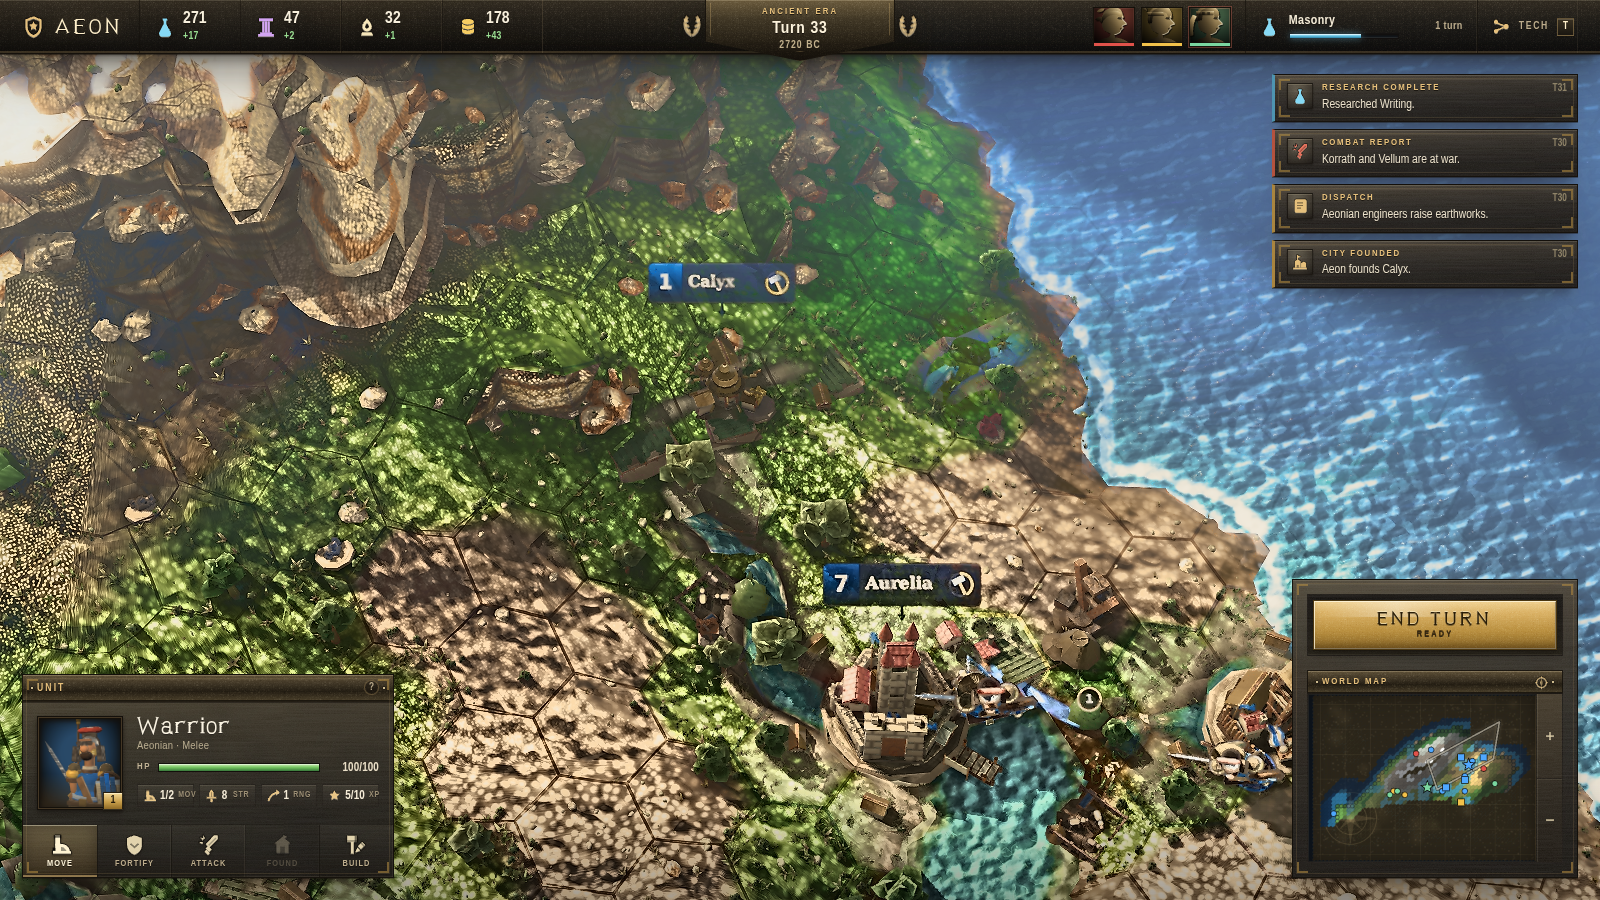
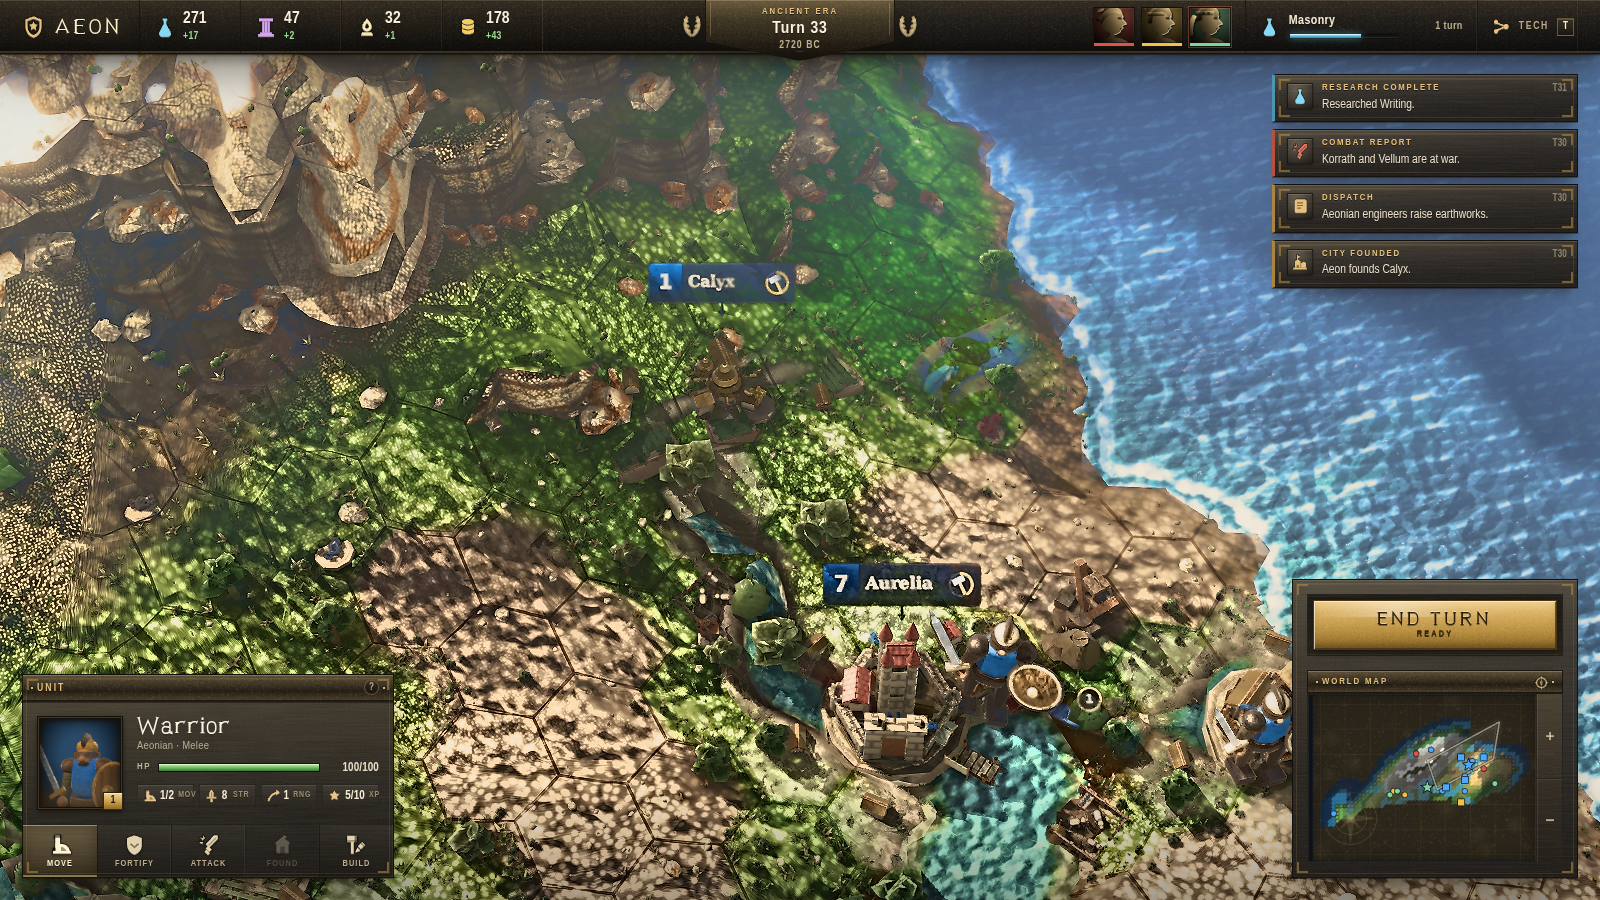
release: re-shot hero/wide/close at 57/100, per-axis scores and the honest defect list

Changed region(s): [[0.5625, 0.6844, 0.8125, 0.9333], [0.0312, 0.8089, 0.0938, 0.9022]]

diff --git a/docs/RESUME.md b/docs/RESUME.md
@@ -1,87 +1,105 @@
-# Resume notes — paused 2026-08-25 (end of phase 9)
+# Resume notes — paused 2026-08-25 (end of phase 10)
 
 ## State
-Referee scores the whole frame on six independent axes. Standing frame at HEAD:
+The referee scores the whole frame on six independent axes. Standing frame at HEAD:
 
 | axis | score | what it measures |
 |---|---|---|
-| lighting | **18** / 30 | cast shadows landing, contact AO, one unifying sun, shadow hue within ~10° of lit hue |
-| material | **9** / 20 | world-space detail shrinking with distance, no confetti, no flat-matte |
-| readability | **8** / 15 | hex grid legible everywhere incl. mountains, biomes distinguishable |
-| units | **3** / 15 | silhouettes nameable at gameplay zoom, grounded, not clay |
+| lighting | **20** / 30 | cast shadows landing, contact AO, one unifying sun, shadow hue near the lit hue |
+| material | **8** / 20 | world-space detail shrinking with distance, no confetti, no flat-matte |
+| readability | **9** / 15 | hex grid legible everywhere incl. mountains, biomes distinguishable |
+| units | **6** / 15 | silhouettes nameable at gameplay zoom, grounded, not clay |
 | colour | **6** / 10 | palette compliance, no cast, aerial perspective lighter-cooler-desaturated |
-| finish | **5** / 10 | no mesh holes, blown voids, aliasing, streaks, z-fighting, clipped UI |
-| **total** | **49** / 100 | |
+| finish | **8** / 10 | no mesh holes, blown voids, aliasing, streaks, z-fighting, clipped UI |
+| **total** | **57** / 100 | best recorded; scored on `shots/verify-57.png`, which is the same build as the released frames |
 
-- `node tools/sim.mjs` passes: 260 turns, 26 cities, 32 techs, 11 wars, culture victory.
-- `npx vite build` succeeds; the site deploys from `dist/`.
-- Latest frames: `shots/final-hero.png`, `shots/final-wide.png`, `shots/final-close.png` (1600x900,
-  directed via `?shot=hero|wide|close`; each captured `blank:false errors:[]`).
-- The objective gate still **FAILS** on the released frame. Measured on `shots/final-hero.png`
-  (`node tools/metrics.mjs shots/final-hero.png 200,120,200,140:far-rock 700,430,200,140:mid-sand 620,760,200,140:near-sand 1150,200,240,160:water`):
+- `node tools/sim.mjs` passes: 260 turns, 26 cities, pop 4->341, 57 units, the 32-tech tree exhausted by
+  three of four civs, 11 wars and 6 peaces, 14449 pathed tiles with 0 read through fog,
+  culture victory to Vellum. Worst turn 15 ms.
+- `npx vite build` succeeds; GitHub Actions rebuilds `dist/` on push and deploys it.
+- Released frames: `shots/final-hero.png`, `shots/final-wide.png`, `shots/final-close.png`
+  (1600x900, directed via `?shot=hero|wide|close`; each captured `blank:false errors:[]`).
+- The objective gate still **FAILS** on the released frame:
+
+  `node tools/metrics.mjs shots/final-hero.png 200,120,200,140:far-rock 700,430,200,140:mid-sand
+  620,700,240,160:near-sand 1200,300,240,160:water`
 
   | region | mean | sat | hue | HF_rms | MID/HF |
   |---|---|---|---|---|---|
   | far-rock | 121.3 | 0.317 | 34.5 | 14.64 | 1.00 |
-  | mid-sand | 100.0 | 0.460 | 65.5 | **23.69** | 1.10 |
-  | near-sand | 106.9 | **0.469** | 48.9 | 20.51 | **1.40** |
-  | water | 108.7 | 0.391 | 211.6 | 13.44 | 0.92 |
+  | mid-sand | 100.0 | **0.460** | 65.5 | **23.69** | 1.10 |
+  | near-sand | 116.8 | **0.467** | 51.5 | **22.61** | **1.36** |
+  | water | 131.1 | 0.421 | 209.2 | **3.52** | **3.92** |
 
-  near/far HF ramp **1.40** (need ≥ 1.6) · crushed 0.08 · blown 0.00. Four failures: mid-sand HF over
-  the 22 confetti ceiling, near-sand MID/HF over 1.3 (blurry blobs), near-sand saturation over 0.46,
-  and the ramp. Clipping and shadow-hue coherence are the two things that do pass cleanly.
-
-## Phase 9: six attempts, six reverts
-Phase 9 replaced the single noisy total with a per-axis Pareto gate — accept only if **no axis drops
-and at least one gains ≥ 2**. It ran a coherent look pass (terrain + post + water + grid together,
-because the failures were coherence failures no single file could fix) and a units rebuild.
-
-| attempt | total | why it was rejected |
-|---|---|---|
-| look a1 | 48 | material 9 → 8 |
-| look a2 | 39 | lighting 18 → 12, readability 8 → 7, finish 5 → 3 |
-| look a3 | 47 | lighting 18 → 17, material 9 → 8, colour 6 → 5 |
-| units a1 | 44 | material 9 → 6, lighting 18 → 15 |
-| units a2 | **57** | units 3 → 6, lighting 18 → 20, finish 5 → 8 — but material 9 → 8 |
-| units a3 | 52 | units 3 → 6 — but readability 8 → 7 |
-
-Read that table before designing phase 10. **The gate reverted the best frame this project has ever
-rendered.** units a2 gained +8 total across three axes and lost one point of material; the rule as
-written threw it away. A strict "no axis may drop" gate on a judge whose per-axis noise is about ±1
-cannot ratchet — it rejects every real trade. Phase 10 should either allow a bounded trade
-(e.g. accept if Σ gains ≥ Σ losses + 2 and no axis drops by more than 1), score each attempt twice
-and compare means, or freeze the axes an attempt is not allowed to touch and only gate those.
+  near/far HF ramp **1.54** (need >= 1.6) - crushed 0.07 - blown 0.00. Seven failures: mid-sand and
+  near-sand HF over the 22 confetti ceiling, near-sand MID/HF over 1.3 (blurry blobs), near-sand
+  saturation over the 0.46 ceiling, water HF under the 7 floor and its MID/HF at 3.92 (a flat sheet
+  with no material at all), and the ramp. Clipping and shadow-hue coherence are the two things that
+  pass cleanly. The water box lands on open sea clear of the notification rail — check that before
+  trusting any number from it.
 
 ## Outstanding defects, in referee priority order
-1. **Units are not units at gameplay zoom.** Compare the three released frames: in `final-close.png`
-   the figures resolve into sword-and-shield soldiers, but in `final-hero.png` — the distance a player
-   actually plays at — an occupied tile is a strength badge and a contact ring over a mound, and
-   nothing about the silhouette names the unit. Lowest axis (3/15) and the one thing no Civ VI frame
-   lacks. Seven rebuilds have now been reverted; the silhouette work in `units a2` (commit `3263c7f`,
-   reverted in `194d198`) scored the best units axis yet and is the place to restart, not from zero.
-2. **Material is screen-space, not world-space.** Sand reads as blurry pale lozenges, grass as bright
-   confetti. On the released frame the near/far HF ramp is 1.40 against a ≥ 1.6 gate, mid-sand HF is
-   23.69 against a 22 ceiling, and near-sand MID/HF is 1.40 against a 1.3 ceiling — detail is being
-   drawn at pixel scale and blurred at blob scale at the same time. Needs one mipped world-space
-   detail set, not per-region noise.
-3. **Hex grid absent on mountain and rock** (crop `150,80,180,140`) — art-bible non-negotiable #1,
-   still broken after four dedicated passes. Terrain must leave value headroom, grid must adapt alpha
-   to the surface, post must crush neither.
-4. **River reads as a cyan cutout** around `700-840,250-360`: hard-edged, unlit, with a translucent
-   grey-blue slab quad over the tiles. Bed it into the terrain, light it, delete the slab.
-5. **Grass and shallows are acid.** Lit grass measures sat 0.475–0.55 and shallows 0.578 against the
-   bible's 0.30–0.42; near-sand measures 0.469 against the gate's 0.46 ceiling. The palette is
-   documented, it is just not being hit.
-6. **Shadowed rock is flat matte** (shadowed flank at `120,200` measures HF 3.77), plus a hard-edged
-   white snow decal and a black skirt gap near `115,70`.
+1. **Ground material is screen-space, not world-space** (material 8/20, the weakest axis). The
+   referee measured the near/far HF ramp at 1.34–1.59 across its own boxes against the 1.6
+   requirement, near sand and hills at HF 26–29 (confetti), and the far plain collapsed the other way
+   to HF 5 at MID/HF 2.13 (blurry nothing); the gate's standard boxes on the released frame give ramp
+   1.54 and near/mid sand HF 22.6/23.7. Both ends are the same bug: detail drawn at pixel scale
+   instead of at a fixed world size. One triplanar world-space detail set with honest mips fixes both
+   at once — per-region noise never will.
+2. **The hex grid vanishes across the mountain band** — roughly a third of the frame with no
+   clickable tile boundary. Art-bible non-negotiable #1, and still broken after five dedicated
+   passes. Terrain must leave value headroom, the grid must adapt alpha to the surface, post must
+   crush neither.
+3. **Mountains are intersecting flat shards.** Hard polygon seams, adjacent faces disagreeing about
+   the sun direction, paper-white snow caps and a milky near-white void at the summits. Light
+   describes no volume up there.
+4. **Land saturation runs hot against the locked palette.** Grass measures 0.45–0.55 against the
+   bible's 0.30–0.42, sand 0.42–0.47 against desert's 0.24–0.34, and open ocean sits at coast
+   brightness instead of #123A63. The palette is documented; it is simply not being hit.
+5. **Rivers read as hard-edged unlit cyan cutouts** with a translucent slab over the tiles. Bed the
+   channel into the terrain, light it, delete the slab.
+6. **Units still do not name themselves at gameplay zoom** (6/15, up from 3/15). In
+   `final-close.png` the figures resolve into sword-and-shield soldiers; in `final-hero.png` — the
+   distance a player actually plays at — an occupied tile is a strength badge and a contact ring
+   over a mound.
+
+## What is working — do not re-roll it
+One unifying warm key with the shadow hue within 1–3° of the lit hue; correct aerial perspective on
+land; the hex grid on grass, sand and plains; coast foam; the Aurelia keep silhouette; the HUD with
+zero clipping; crushed 0.07 / blown 0.00.
+
+## Phase 10: the gate loosened, and the best frame came back
+Phase 9's gate — accept only if **no axis drops and one gains ≥ 2** — had reverted the best frame
+the project ever rendered (units a2: +8 total across three axes, −1 material). Phase 10 replaced it
+with a bounded trade: **accept if the total gains ≥ 3 and no axis drops by more than 1**, judge
+noise being worth about a point.
+
+| pass | attempts | outcome |
+|---|---|---|
+| units (restore a2) | 1 | **accepted**, 49 → **57** — units 3 → 6, lighting 18 → 20, finish 5 → 8, material 9 → 8 |
+| mountains | 3 | all reverted (`c2178e0`) |
+| terrain/post material | 3 | all reverted (`f925287`) |
+| water | 3 | all reverted (`ea993fb`) |
+
+The loosened gate did exactly one thing and did it well: it let back in a change the strict rule had
+thrown away, worth +8. It then held against nine attempts on the three biggest defects, none of
+which cleared +3. Attempt frames are kept as `shots/p10-<pass>-a<n>.png` next to
+`shots/revert-check-<pass>.png`, so the next phase can see what has already been tried on mountains,
+material and water before trying it again.
 
 ## What was learned (do not re-litigate)
 - Parallel agents on shared visual files oscillate: phases 1-6 went 61 → 34 → 22. Sequential
-  single-owner passes with a git revert gate produced the only monotonic gain (34 → 50).
+  single-owner passes with a git revert gate produced the only monotonic gain (34 → 50 → 57).
 - One-sided metric targets get gamed: "HF_rms ≥ 12" was met by spraying per-pixel noise.
   `tools/metrics.mjs` now bounds detail on both sides and requires a near/far detail ramp.
-- A per-axis gate stops axes being traded away silently, but a *strict* one cannot ratchet against a
-  noisy judge — see the phase 9 table above.
+- A gate has to be able to ratchet. A strict per-axis "no axis may drop" rule against a judge whose
+  per-axis noise is about ±1 rejects every real trade — it cost this project its best frame for two
+  phases. Bounded trade (Σ ≥ +3, no single axis worse than −1) ratchets without letting an axis be
+  quietly sold off.
+- Three consecutive passes reverting nine of nine attempts is the gate working, not the gate stuck —
+  but it also says the remaining defects are not one-file fixes. Mountains, material and water each
+  failed alone; the ranked list above is coupled (grid legibility depends on terrain value headroom,
+  which depends on the grade).
 - The screenshot harness must wait on rendered-frame count, not wall-clock: at ~1 fps under
   software WebGL a timed wait captures an unconverged TAA frame, which produced dozens of
   bogus "near-field is blurry" critiques.

diff --git a/README.md b/README.md
@@ -73,27 +73,50 @@ generated a long run of bogus "the near field is blurry" critiques before anyone
 The **game** is done: a full match plays start to finish, the 260-turn headless simulation passes
 every invariant, and `npx vite build` ships a static bundle.
 
-The **renderer** is not. A referee agent scores the frame against a real Civilization VI screenshot
-on six independent axes; the current frame stands at **49/100**:
+The **renderer** is closer than it was, and still not there. A referee agent scores the frame against
+a real Civilization VI screenshot on six independent axes; the current frame stands at **57/100**:
 
 | lighting | material | readability | units | colour | finish | total |
 |---|---|---|---|---|---|---|
-| 18/30 | 9/20 | 8/15 | **3/15** | 6/10 | 5/10 | **49/100** |
+| 20/30 | **8/20** | 9/15 | 6/15 | 6/10 | 8/10 | **57/100** |
 
-Honestly stated: blind judging still picks the real Civ VI immediately. Units are the worst of it —
-close up they resolve into soldiers, but at the distance you actually play at an occupied tile is a
-strength badge and a contact ring over a mound, and the silhouette names nothing. Ground material is screen-space rather than world-space, so detail does not shrink with
-distance. The hex grid still vanishes on mountain tiles, which breaks the art bible's first
-non-negotiable. Rivers read as flat cyan cutouts. The objective gate agrees: `tools/metrics.mjs` on
-the shipped frame still fails, with the near/far detail ramp at 1.40 against a 1.6 target. All six
-defects are written up in priority order, with the measurements behind them, in `docs/RESUME.md`.
+What holds up: one unifying warm key with the shadow hue within a couple of degrees of the lit hue,
+correct aerial perspective on land, the hex grid on grass, sand and plains, coast foam, the keep
+silhouette, a HUD with no clipping anywhere, and clean ends of the histogram — 0.07 of the frame
+crushed, none of it blown.
 
-Nine phases in, the whole-frame score went 61 → 34 → 22 under parallel agents, then climbed to 50
-under sequential single-owner passes with a revert gate; the six-axis rubric above re-scored that same
-frame at 49, and the latest phase then reverted all six of its attempts. The most useful thing in this
-repo may be that record: `docs/RESUME.md` documents which gate designs ratcheted and which stalled —
-including one so strict it threw away the best frame the project ever rendered over a single point on
-a single axis.
+What does not, in the referee's priority order:
+
+1. **Ground material is screen-space, not world-space.** The near/far detail ramp measures 1.54
+   against a 1.6 requirement, near and mid sand run HF 22.6 and 23.7 against a 22 confetti ceiling,
+   and the referee finds the far plain collapsed the other way, to HF 5 at MID/HF 2.13 — blurry
+   nothing. Both ends are one bug: detail drawn at pixel scale instead of at a fixed world size.
+   Weakest axis at 8/20.
+2. **The hex grid vanishes across the mountain band** — about a third of the frame with no clickable
+   tile boundary, in a game played by clicking tiles. Art-bible non-negotiable #1.
+3. **Mountains are intersecting flat shards.** Hard polygon seams, adjacent faces disagreeing about
+   where the sun is, paper-white snow caps and a milky near-white void where the summits should have
+   volume.
+4. **Land saturation runs hot against the locked palette** — grass measures 0.45–0.55 against a
+   0.30–0.42 spec, sand 0.42–0.47 against desert's 0.24–0.34 — and open ocean sits at coast
+   brightness instead of the specified `#123A63`.
+5. **Rivers read as hard-edged unlit cyan cutouts**, with a translucent slab laid over the tiles
+   instead of a channel cut into them.
+6. **Units still do not name themselves at gameplay zoom** (6/15, up from 3/15). Close up they
+   resolve into sword-and-shield soldiers; at the distance the hero frame is played at, an occupied
+   tile is a strength badge and a contact ring over a mound.
+
+Blind judging still picks the real Civ VI immediately, and the objective gate agrees:
+`tools/metrics.mjs` on the shipped `shots/final-hero.png` reports **FAIL** on seven counts. All of it
+is written up with the measurements behind it, in priority order, in `docs/RESUME.md`.
+
+Ten phases in, the whole-frame score went 61 → 34 → 22 under parallel agents, then climbed to 50
+under sequential single-owner passes with a revert gate, and to 57 once that gate stopped rejecting
+every trade. The most useful thing in this repo may be that record: `docs/RESUME.md` documents which
+gate designs ratcheted and which stalled — including one so strict it discarded the best frame the
+project had ever rendered over a single point on a single axis, and the looser rule that had to put
+it back. The three passes since have reverted nine attempts out of nine: the remaining defects are
+coupled, and none of them is a one-file fix.
 
 Contributions welcome — `docs/ART-BIBLE.md` (the locked direction) and `tools/metrics.mjs` (the
 objective gate) are the two things to read first.
